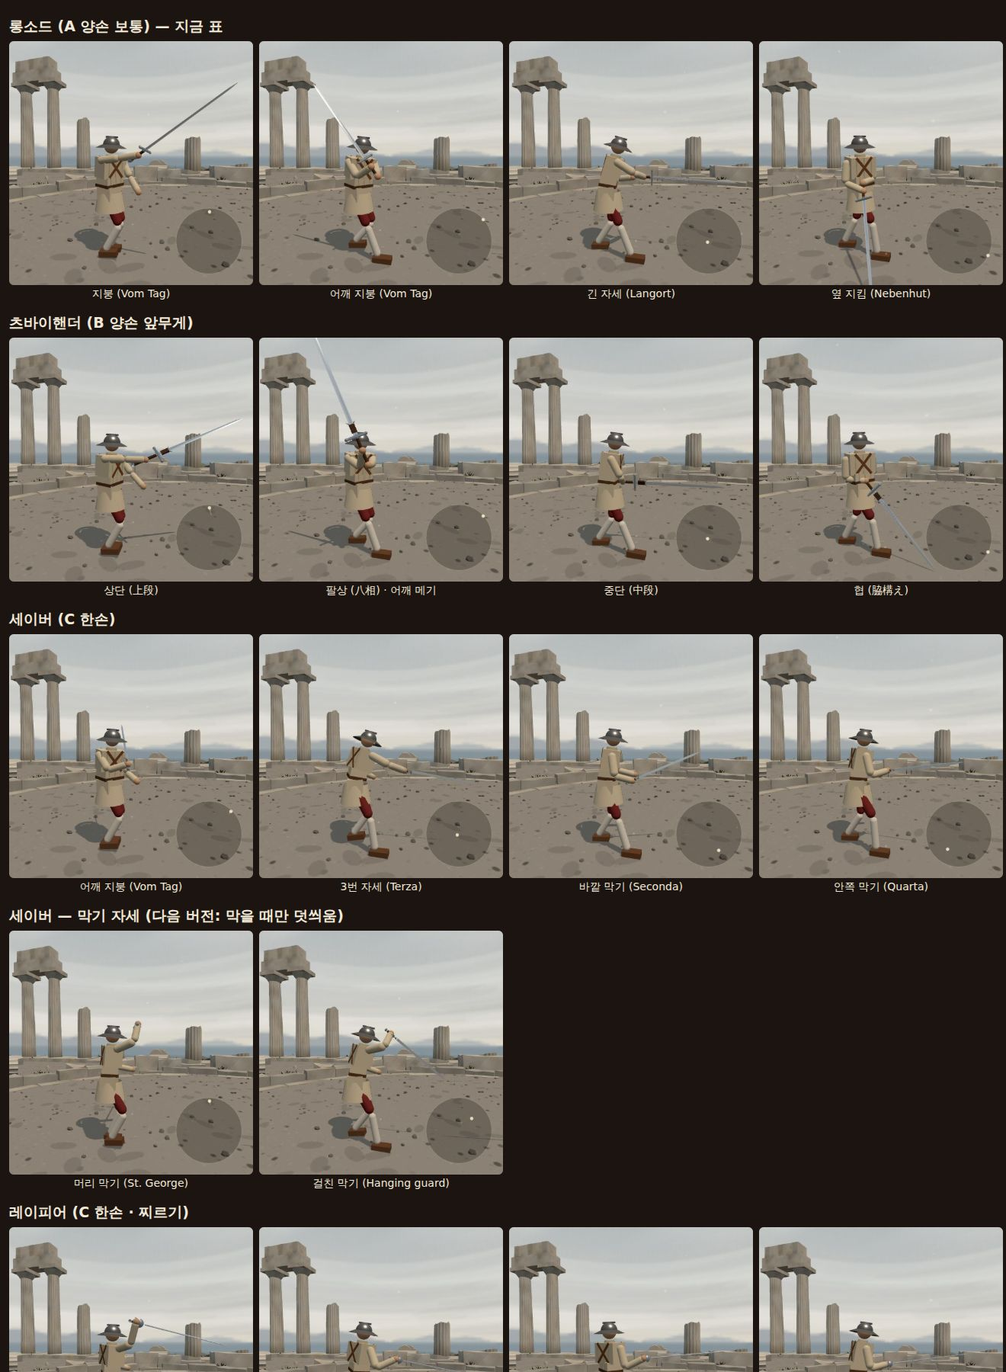
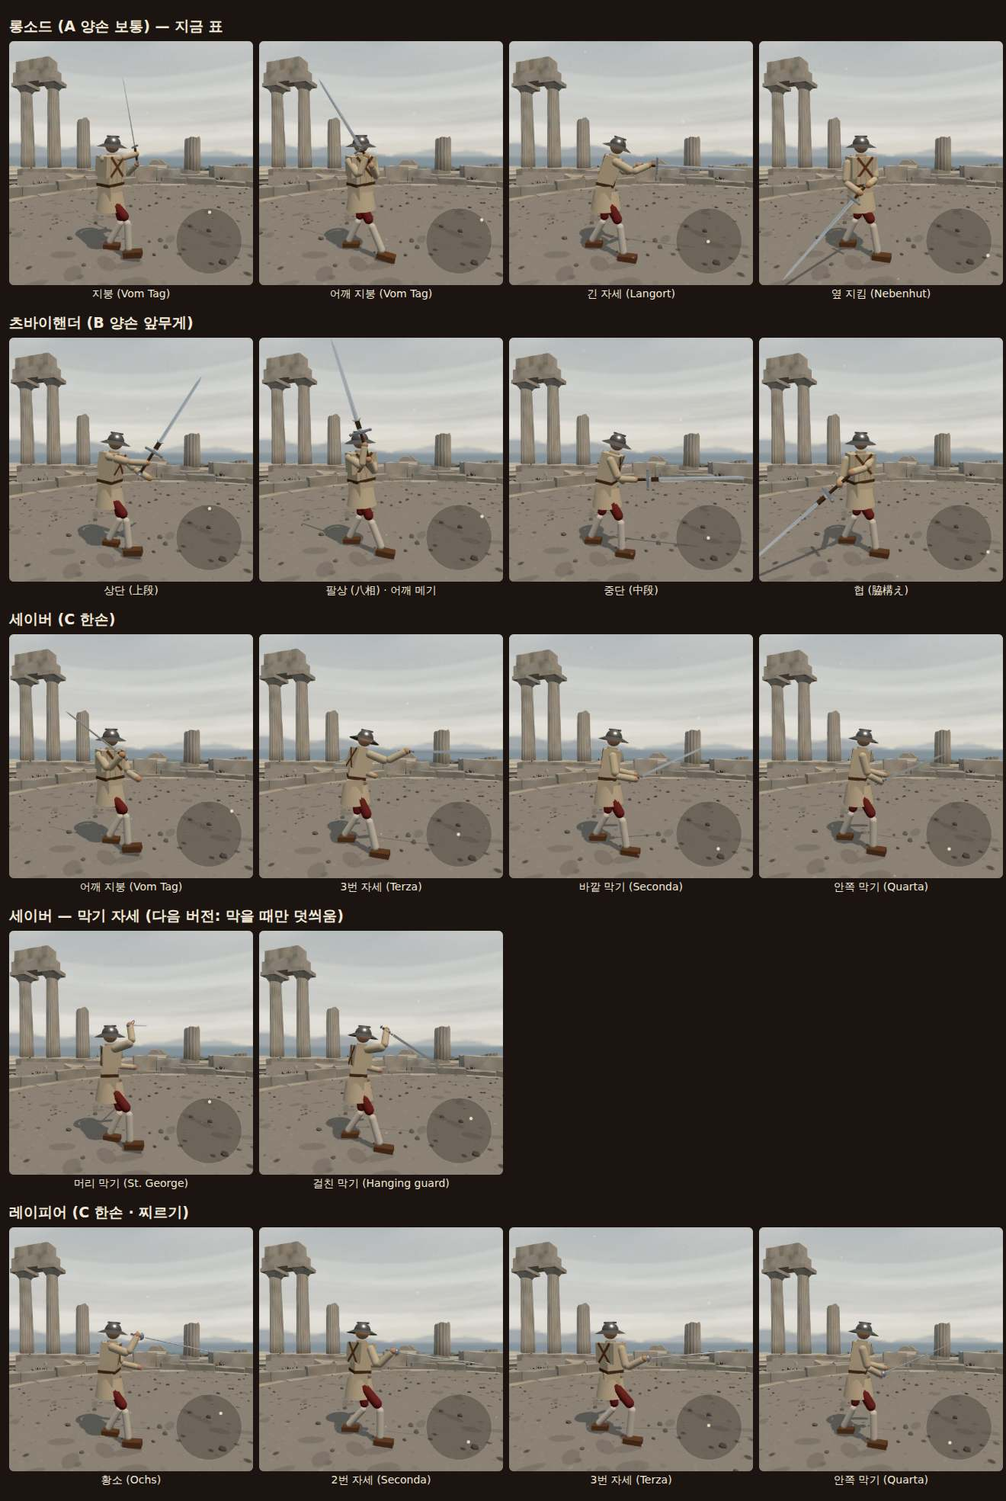
동작 라이브러리: 48판 비교로 찾은 규칙 반영 — 막기 자세는 자세표 대신 막기 덧씌우기(COVERS, 끔), 레이피어 1번 자세·안쪽 막기 값 뺌, AI 몰리넬로 뺌(사람 길로만), 손목 베기는 날 있는 칼만, 날 세우기 끄기 기본 끔, 모노호시자오 상단 제외(motionSkip). 켜도 약해지는 무기 없음(츠바이핸더 31→42%)
Claude-Session: https://claude.ai/code/session_013j34LYEUYoaeS5xUme2DTq

diff --git a/src/motion_library.js b/src/motion_library.js
@@ -68,7 +68,8 @@ export const FRAME_GUARDS = {
   one: {
     '긴 자세 (Langort)': { name: '3번 자세 (Terza)', desc: '팔을 곧게 뻗어 칼끝으로 겨누고 몸을 옆으로 세운다 · 런지로 찌른다', src: '카포 페로 3번 자세 [해석] — 손 위치는 R2 한손 뻗기 값' },
     '쟁기 (Pflug)': { name: '바깥 막기 (Seconda)', desc: '손을 허리 바깥에, 칼끝은 상대 얼굴 · 바깥 선을 닫는다', src: '[해석] — 손 위치는 R2 값' },
-    '왼쪽 쟁기': { name: '안쪽 막기 (Quarta)', desc: '손바닥을 위로 돌려 안쪽 선에, 칼끝은 상대 얼굴 · 안쪽 선을 닫는다', hand: [0.42, -0.1, 0.05], blade: [15, 8], pelvisYaw: -25, chestYaw: -35, pitch: 5, drop: 0.08, src: '카포 페로 4번 자세 = 손목을 돌린 상태(손바닥 위) [원전 2차] · 세이버 inside guard [원전 2차]' },
+    // 안쪽 막기(Quarta)는 이름만 붙인다: 손·칼끝을 바꾸면(손 [0.42,−0.10,0.05]·칼끝 [15,8]) 청강검이 50% → 31% (값 그대로 두면 44%) — 이 자리도 베기 길이 지난다
+    '왼쪽 쟁기': { name: '안쪽 막기 (Quarta)', desc: '손바닥을 위로 돌려 안쪽 선에, 칼끝은 상대 얼굴 · 안쪽 선을 닫는다', src: '레이피어 4번 자세(quarta) = 손목을 돌린 상태 [원전 2차 카포 페로] — 손 위치는 롱소드 왼쪽 쟁기 그대로' },
   },
 
   //  머리 막기(St. George)·걸친 막기(Hanging)는 표에 넣지 않는다 → 아래 COVERS (측정: 표의 지붕·황소 자리를 이 막기 자세로 바꾸자
@@ -86,7 +87,8 @@ export const STYLE_GUARDS = {
   'one:thrust': {
     '긴 자세 (Langort)': { name: '3번 자세 (Terza)', desc: '몸을 옆으로 세우고 뒷무릎을 굽혀 체중을 뒤에 · 팔은 굽히고 칼끝으로 상대 얼굴 · 런지로 찌른다', hand: [0.5, -0.05, 0.2], blade: [8, -3], pelvisYaw: -55, chestYaw: -65, pitch: -3, drop: 0.12, src: '카포 페로(1610) 9장: 뒷무릎을 굽힌다, 앞다리는 거의 편다 [원전 2차] · 옆으로 선 정도·손 위치 [추정]' },
     '쟁기 (Pflug)': { name: '2번 자세 (Seconda)', desc: '손을 어깨 높이로 뻗고 손바닥을 아래로 · 칼끝은 상대 가슴', hand: [0.5, 0.08, 0.24], blade: [-3, -3], pelvisYaw: -50, chestYaw: -60, pitch: 2, drop: 0.12, src: '카포 페로 2번 자세: 손바닥 아래, 어깨 높이 [원전 2차]' },
-    '황소 (Ochs)': { name: '1번 자세 (Prima)', desc: '칼을 뽑은 자리 — 손을 머리 위로, 칼끝은 상대 가슴으로 내려 겨눈다', hand: [0.32, 0.38, 0.18], blade: [-20, -10], pelvisYaw: -45, chestYaw: -55, pitch: 0, drop: 0.1, src: '카포 페로 1번 자세: 칼을 뽑은 직후, 머리 위 [원전 2차]' },
+    // 1번 자세(Prima: 손을 머리 위로, 칼끝을 내려 겨눔)는 뺐다 — 황소 자리는 찌르기·베기 길의 경유점이라 칼끝을 내리면 길이 휜다
+    //  (측정 48판: 넣으면 15%, 빼면 40%. 한손 막기 자세와 같은 까닭 — COVERS)
   },
 };
 
@@ -110,9 +112,10 @@ export function frameTableWithCovers(frame, style = null) {
 }
 
 /** 몸 틀(+싸움 방식)의 자세표 (guards.js 와 같은 순서·같은 패드). 고칠 것이 없으면 null(바탕 표 그대로) */
-export function frameTable(frame, style = null) {
+export function frameTable(frame, style = null, skip = []) {
   const o = { ...(FRAME_GUARDS[frame] ?? {}), ...(STYLE_GUARDS[`${frame}:${style}`] ?? {}) };
   for (const k of MOTION.skip) delete o[k];
+  for (const k of skip) delete o[k];
   if (!Object.keys(o).length && frame !== 'one') return null;
   return table(frame === 'one' || frame === 'gun' ? GUARD_BASE_ONE : GUARD_BASE, o);
 }
@@ -129,7 +132,9 @@ export const NEW_TECH = {
   ],
   // C: 손목으로 칼을 한 바퀴 돌려 되벤다(몰리넬로) · 앞에 나온 상대 손목·아래팔을 끊어 친다
   one: [
-    { name: 'molinello', from: G.langort, path: [[0.25, -0.35], G.nebenR, G.tagR, [0.12, 0.14], G.wechselL], open: 'UL', kind: 'cut', reach: 0, base: 0.9, chain: 1, src: '세이버 몰리넬로(moulinet) [해석]' },
+    // 몰리넬로는 사람이 손가락으로 그리는 길로만 둔다(ai: false): AI 가 골라 쓰면 한 판에 70~99번 쓰며 진다
+    //  (측정 48판: 세이버 켬 17% → 몰리넬로 빼면 44%, 나뭇가지 15% → 40%). 원을 돌리는 0.25초 동안 가운데가 비고 첫 베기가 약하다
+    { name: 'molinello', ai: false, from: G.langort, path: [[0.25, -0.35], G.nebenR, G.tagR, [0.12, 0.14], G.wechselL], open: 'UL', kind: 'cut', reach: 0, base: 0.9, chain: 1, src: '세이버 몰리넬로(moulinet) [해석]' },
     { name: 'wristCut', from: G.tagR, path: [[0.2, 0.1], [0.05, -0.08]], open: 'UL', kind: 'cut', reach: 0.25, base: 0.7, fast: true, src: '세이버·검의 손목 베기: 어깨에서 짧게 내려 앞손·아래팔을 끊는다(몸통보다 0.3~0.4 m 가깝다). 길이 0.62 — 분노의 베기의 절반 [해석]' },
   ],
 };
@@ -142,8 +147,9 @@ export function styleTech(style, frame) {
   if (style === 'blunt') t = t.filter((x) => x.kind !== 'thrust'); // 때리기: 동작은 베기와 같고 찌르기만 뺀다 (docs/weapon_types.md §4-3)
   // 앞무게: 높은 자세에서 내리치는 베기(분노의 베기=가사베기, 정수리 베기=상단 정면)를 먼저 — 가속할 길이 길다 (10라운드 6-7 과 같은 뜻)
   if (frame === 'heavy') t = weight(t, (x) => x.presses, 1.4);
-  const add = NEW_TECH[frame] ?? [];
-  return [...t, ...(style === 'thrust' ? add.filter((x) => x.kind === 'thrust') : add)];
+  // 손목 베기는 날 있는 한손 칼만: 나뭇가지(때리기)에 넣으면 40% → 19% (가볍고 날이 없어 앞손을 끊지 못하고 틈만 준다)
+  const add = (NEW_TECH[frame] ?? []).filter((x) => !(style === 'blunt' && x.name === 'wristCut'));
+  return [...t, ...(style === 'thrust' ? add.filter((x) => x.kind === 'thrust') : add)].filter((x) => x.ai !== false);
 }
 
 /** 속임수: 찌르기 없는 방식이면 찌르기 속임수를 뺀다 */
@@ -187,9 +193,9 @@ export const OVERLAY = {
 export function motionFor(weapon) {
   const frame = weapon.frame ?? 'two';
   const style = weapon.style ?? 'versatile';
-  return { frame, style, table: frameTable(frame, style), tech: styleTech(style, frame), feints: styleFeints(style), watch: frameWatchGuards(frame), overlay: OVERLAY[style] ?? null, parry: MOTION.useParry ? LIB_PARRY[weapon.id] ?? null : null, noTwist: style === 'blunt', flow: frame === 'heavy' };
+  return { frame, style, table: frameTable(frame, style, weapon.motionSkip ?? []), tech: styleTech(style, frame), feints: styleFeints(style), watch: frameWatchGuards(frame), overlay: OVERLAY[style] ?? null, parry: MOTION.useParry ? LIB_PARRY[weapon.id] ?? null : null, noTwist: style === 'blunt', flow: frame === 'heavy' };
 }
-export function applyMotionLibrary(fighter, { overlay = true, flow = true, noTwist = true } = {}) {
+export function applyMotionLibrary(fighter, { overlay = true, flow = true, noTwist = false, ai = null, cover = true } = {}) {
   const m = motionFor(fighter.weapon ?? {});
   fighter.guardPose.table = fighter.bodyGuard.table = m.table ?? undefined;
   fighter.motion = m;
@@ -197,11 +203,55 @@ export function applyMotionLibrary(fighter, { overlay = true, flow = true, noTwi
   // 날 세우기(손목 비틀기)를 끈다: 날 없는 무기(④ 때리기)는 어느 면으로 맞아도 같다.
   //  비트는 힘도 손목 힘 한도(cap) 안에서 나눠 쓰므로, 끄면 그만큼 휘두르는 데 쓴다 (무기-검술 연구 ② 제안).
   //  잰 값(motion_lab swings): 나뭇가지 +15~30%, 참치는 베기마다 들쭉날쭉. 라이트세이버(연구 ⑥ 제안)는 우리 판정이 날 있는 칼로 보므로
-  //  끄면 날이 안 서 베기 지표가 0 이 된다 — 넣지 않는다
+  //  끄면 날이 안 서 베기 지표가 0 이 된다 — 넣지 않는다.
+  //  기본은 끔(noTwist=false): 실제 싸움에서 참치 23% → 8%, 나뭇가지도 떨어졌다 (비트는 힘이 칼을 붙잡아 주는 몫이 컸다). 기록용으로만 남긴다
   if (overlay && noTwist && m.noTwist) fighter.twistScale = 0;
   // 흐름(SKILL.flow — 멈추지 않고 이어 베기)을 이 검객에게만 켠다: 앞무게(B)는 되돌리지 않고 이어 도는 것이 빠른 길 (몬탄테)
   if (overlay && flow && m.flow) installFlow(fighter);
+  // 막기 덧씌우기(COVERS): AI 가 그 줄을 칼로 막는 동안만 손·칼끝을 막기 자세로 덮는다 (자세표에 넣으면 베기 길이 휜다 — COVERS 주석)
+  if (overlay && cover && ai && COVERS[m.frame]) installCover(fighter, ai, COVERS[m.frame]);
   return m;
+}
+
+/** 막기 덧씌우기 (시제품): 검술 층 update 뒤에 thrustPose(덧씌우기 칸)를 막기 자세로 채운다. 찌르기(tap)·사격 중엔 건드리지 않는다 */
+function installCover(fighter, ai, covers) {
+  const sk = fighter.skill;
+  if (!sk || sk._cover) return;
+  const D = Object.fromEntries(Object.entries(covers).map(([k, o]) => {
+    const el = o.blade[0] * D2R;
+    const az = o.blade[1] * D2R;
+    return [k, { ...o, dir: [Math.cos(el) * Math.cos(az), Math.sin(el), Math.cos(el) * Math.sin(az)] }];
+  }));
+  sk._cover = { w: 0, last: null };
+  const upd = sk.update.bind(sk);
+  sk.update = (dt) => {
+    const r = upd(dt);
+    const st = sk._cover;
+    if (sk.tap || fighter.weapon?.gun) {
+      st.w = 0;
+      return r;
+    }
+    const want = ai.mode === 'defend' && !ai.defVoid ? D[ai.defLine] : null;
+    if (want) st.last = want;
+    st.w = Math.max(0, Math.min(1, st.w + (want ? dt / 0.08 : -dt / 0.15))); // 0.08초에 덮고 0.15초에 걷는다
+    const c = st.last;
+    const pose = sk.thrustPose;
+    if (!c || st.w <= 0) {
+      if (pose.w && !sk.tap) pose.w = 0;
+      return r;
+    }
+    for (let k = 0; k < 3; k++) {
+      pose.hand[k] = c.hand[k];
+      pose.dir[k] = c.dir[k];
+    }
+    pose.pelvisYaw = c.pelvisYaw * D2R;
+    pose.chestYaw = c.chestYaw * D2R;
+    pose.pitch = c.pitch * D2R;
+    pose.drop = c.drop;
+    pose.w = st.w;
+    sk.covers = (sk.covers ?? 0) + (want ? dt : 0);
+    return r;
+  };
 }
 
 function installFlow(fighter) {

diff --git a/src/weapons.js b/src/weapons.js
@@ -617,6 +617,9 @@ const monohoshizao = finalizeSpec('monohoshizao', {
   grip: 'two-hand', material: 'steel',
   tier: 'epic',
   ability: '제비 베기: 출혈',
+  // 동작 라이브러리(motion_library.js, 기본 꺼짐)의 앞무게 자세표에서 상단(上段)은 쓰지 않는다: 긴 자루·앞무게 칼이 칼끝을 뒤로 눕힌
+  //  상단에서 빠르게 내리면 날이 서지 않는다(날 세움 0~0.7) → 실제 싸움 48판 31% (상단 빼면 46%, 라이브러리 끔 50%). 지붕 자세 그대로
+  motionSkip: ['지붕 (Vom Tag)'],
   bleedMult: 2, // 에픽 특수 능력 '제비 베기: 출혈' (사장님 b안): 이 칼에 베이고 찔린 상처의 출혈 ×2 (롱소드 상대 ×1 38% · ×1.5 44% · ×2 50%, 48판씩 — 에픽 폭 45~65% 안)
   hiltLength: 0.25, bladeLength: 0.9, gripAlong: -0.22,
   mCut: 1.7, mThrust: 0.85, mBlunt: 0.95, // 1.5 로는 롱소드 상대 4% (긴 칼이라 간격에서 이기지 못한다) → 1.7 (실효 1.87)

diff --git a/docs/weapon_motions.md b/docs/weapon_motions.md
@@ -53,15 +53,17 @@
 | A ③ 찌르기 | 에스톡 | 14 (+1 반검, 계획) | 12, 찌르기 가중 ↑ | 4 (+반검 찌르기) | 롱소드 표 | 반검은 빈손이 칼날을 쥐는 물리가 먼저라 계획만 (§4) |
 | B ② 베기 | 츠바이핸더·모노호시자오 | 14 (**5**: 상단·팔상·왼 팔상·중단·협) | 12 + **몬탄테 탈류→레베스** (높은 베기 가중 ×1.4, 찌르기 ×0.5) | **흐름 켜기** + (계획) 먼저 세우기 | 무기별 재측정 | 시제품·측정 (§3·§5) |
 | B ④ 때리기 | 냉동 참치 | B 표 그대로 | 찌르기 뺀 10 + 탈류→레베스 | 흐름 + **날 세우기 끄기** | 재측정 | 시제품·측정 |
-| C ① 두루 | 청강검 | 14 (**5**: 머리 막기·걸친 막기·3번·바깥·안쪽) | 12 + **몰리넬로·손목 베기** | 들어가며 막기(있음) | 재측정 | 시제품·측정 |
+| C ① 두루 | 청강검 | 14 (자세 값은 지금 한손 표, 교본 이름 3: 3번·바깥·안쪽) + **막기 덧씌우기 2** (머리 막기·걸친 막기) | 12 + **손목 베기** (+ 몰리넬로는 사람만) | 들어가며 막기(있음) · 막기 덧씌우기(시제품, 끔) | 재측정 도구 | 시제품·측정 |
 | C ② 베기 | 세이버·팔쉬온 | C 표 | 12(찌르기 ×0.5) + 몰리넬로·손목 베기 | 들어가며 막기(있음) | 재측정 | 시제품·측정 |
-| C ③ 찌르기 | 레이피어 | C 표 + **3** (1·2·3번 자세 카포 페로식) | 12(찌르기 ×1.8, 베기 ×0.7) | **런지** + 칼 길 잡기(있음) | 재측정 | 시제품·측정 |
+| C ③ 찌르기 | 레이피어 | C 표 + **2** (2·3번 자세 카포 페로식. 1번은 뺐다 — §5-2) | 12(찌르기 ×1.8, 베기 ×0.7) | **런지** + 칼 길 잡기(있음) | 재측정 | 시제품·측정 |
 | C ④ 때리기 | 나뭇가지·고무 닭 | C 표 | 찌르기 뺀 10 + 몰리넬로·손목 베기 | 날 세우기 끄기 | 재측정 | 시제품·측정 |
 | D ⑤ 사격 | 리볼버 | 사격 자세 1 | 쏘기 1 | 반동·장전 자세 | — | 디렉터 작업 중(자동 조준) |
 | E ③ 자루 무기 | (창 — 로스터 없음) | 6 (Mittelhut·Oberhut·Unterhut·Steurhut·Nebenhut·Wechselhut) [원전 2차 마이어] | 6 (미끄러뜨려 찌르기·뒷끝 치기·교차 베기…) | 3 (손 옮겨 쥐기·끝 바꾸기·런지) | — | **물리 구조부터**(두 손 간격) — 계획만 |
 | E ②④ 할버드·폴액스 | (없음) | E 표 | 내려찍기·걸어 당기기 | 자루로 받기 | — | 계획만 |
 
-**합계** (새로 만든 것): 자세 13(B 5, C 5, C③ 3), 기술 3(탈류→레베스·몰리넬로·손목 베기), 덧씌우기 3(런지·흐름 켜기·날 세우기 끄기), 무기별 막기 자리 8벌.
+**합계:**
+- **남긴 것:** 자세 7(B 5, C③ 2)과 교본 이름 3(C), 막기 덧씌우기 2(머리 막기·걸친 막기, 끔). 기술 3(탈류→레베스·손목 베기, 몰리넬로는 사람만). 덧씌우기 2(런지·흐름 켜기).
+- **시행착오로 뺀 것:** 한손 막기 자세 2를 표에서, 레이피어 1번 자세, 안쪽 막기 값, 모노호시자오 상단, 날 세우기 끄기, AI 몰리넬로 — §5-2.
 **계획** (구조가 먼저 필요): 에스톡 반검 1, 자루 무기 표 6 + 기술 6 + 덧씌우기 3.
 
 ## 2. 자세표 (몸 틀별) — 값과 물리에서 버티는지
@@ -83,18 +85,22 @@
 ### C 한손 (세이버·팔쉬온·청강검·레이피어·나뭇가지·고무 닭)
 | 패드 | 자세 | 손 | 칼끝 | 근거 | 세이버 / 레이피어 (cm·°) |
 |---|---|---|---|---|---|
-| 머리 위 | **머리 막기 (St. George)** | 0.30, 0.40, 0.08 | 5, −80 (머리 위 가로) | 허턴 Cold Steel 도판 [원전 2차] | 2.8·0.2 / 4.6·0.9 |
-| 오른 위 앞 | **걸친 막기 (Hanging)** | 0.40, 0.38, 0.12 | −35, −20 (칼끝이 상대 가슴으로 늘어짐) | 페이지(1746): 팔꿈치를 들고 칼끝은 상대 가슴, 머리를 덮는다 [원전 2차] | 2.0·0.2 / — |
 | 가운데 | **3번 자세 (Terza)** | R2 한손 뻗기 값 | 교본 | 한손 뻗기 [해석] | 0.5·0.0 / (C③ 표) |
 | 오른 허리 | **바깥 막기 (Seconda)** | R2 값 | 교본 | [해석] | 3.2·0.4 / (C③ 표) |
-| 왼 허리 | **안쪽 막기 (Quarta)** | 0.42, −0.10, 0.05 | 15, 8 | 4번 자세 = 손바닥 위로 돌린 상태 [원전 2차 카포 페로] | 2.8·0.5 / 4.0·0.6 |
+| 왼 허리 | **안쪽 막기 (Quarta)** | 롱소드 왼쪽 쟁기 값 | 교본 | 4번 자세 = 손바닥 위로 돌린 상태 [원전 2차 카포 페로] — 값을 바꾸면 청강검이 약해져 이름만 (§5-2) | — |
+
+**막기 덧씌우기 (COVERS — 자세표가 아니라 막을 때만 덮는다, §5-2):**
+| 막는 줄 | 자세 | 손 | 칼끝 | 근거 | 세이버 (cm·°, 자세표에 넣었을 때 잰 값) |
+|---|---|---|---|---|---|
+| 정수리(highC) | **머리 막기 (St. George)** | 0.30, 0.40, 0.08 | 5, −80 (머리 위 가로) | 허턴 Cold Steel 도판 [원전 2차] | 2.8·0.2 / 4.6·0.9 |
+| 오른 위(highR) | **걸친 막기 (Hanging)** | 0.40, 0.38, 0.12 | −35, −20 (칼끝이 상대 가슴으로 늘어짐) | 페이지(1746): 팔꿈치를 들고 칼끝은 상대 가슴, 머리를 덮는다 [원전 2차] | 2.0·0.2 / — |
 
 C③ 레이피어 덧씌우기 (카포 페로):
 | 패드 | 자세 | 손 | 칼끝 | 몸 | 근거 | 레이피어 (cm·°) |
 |---|---|---|---|---|---|---|
 | 가운데 | **3번 자세 (Terza)** | 0.50, −0.05, 0.20 | 8, −3 | 골반 −55·가슴 −65, 뒤로 −3°, 낮춤 0.12 | 뒷무릎 굽힘·앞다리 폄(9장) [원전 2차] · 칼 길이 = 런지 보폭 [원전 2차] | 6.1·7.6 |
 | 오른 허리 | **2번 (Seconda)** | 0.50, 0.08, 0.24 | −3, −3 | −50·−60 | 손바닥 아래, 어깨 높이 [원전 2차] | 4.8·4.9 |
-| 오른 위 앞 | **1번 (Prima)** | 0.32, 0.38, 0.18 | −20, −10 | −45·−55 | 칼을 뽑은 자리, 머리 위 [원전 2차] | 2.2·0.1 |
+| (뺌) | 1번 (Prima) | 0.32, 0.38, 0.18 | −20, −10 | −45·−55 | 칼을 뽑은 자리, 머리 위 [원전 2차] — 황소 자리(베기 경유점)라 빼냈다: 넣으면 15%, 빼면 40% | 2.2·0.1 |
 
 - 자세는 모두 물리에서 버틴다. 손 오차 대부분 5 cm 안, 가장 큰 것은 왼 팔상 18 cm(롱소드 표의 같은 자리도 17 cm), 칼끝 오차 8° 안이다.
 
@@ -107,8 +113,8 @@ C③ 레이피어 덧씌우기 (카포 페로):
 | 기술 | 길 | 근거 | 잰 값 |
 |---|---|---|---|
 | **탈류→레베스** (B) | 오른 어깨 → 왼 아래 → 왼 옆 → 왼 어깨 → 오른 아래 (8자 한 번) | 몬탄테 첫 규칙 [원전 2차] | 츠바이핸더 0.32초에 베기 두 번(6.3·6.1·9.7 m/s). 따로 벤 분노의 베기 한 번(12.3 m/s·180 J)보다 한 번 한 번은 약하다. 대신 **되세우는 시간이 없다**. 모노호시자오 12.1 m/s 이지만 날 세움 0 — 아래 문제 참고 |
-| **몰리넬로** (C) | 긴 자세 → 오른 아래 → 옆 지킴 → 어깨 → 왼 아래 (한 바퀴 돌려 베기) | Radaelli: 팔꿈치 축 원 베기 [원전 2차] | 세이버 0.25초에 두 번(7.2·9.7 m/s, 날 0.9~1.0) |
-| **손목 베기** (C) | 어깨 → 짧게 앞 아래 (길이 0.62, 분노의 베기의 절반) | Roworth·Angelo: 다리를 빼며 머리·손목을 벤다 [원전 2차] | 세이버 10.9 m/s·98 J (날 1.0) — 팔 상처 문턱 22 J 를 넉넉히 넘는다. 처음 넣은 아주 짧은 길(0.37)은 4 m/s·14 J 로 쓸모없어 고쳤다 |
+| **몰리넬로** (C, 사람만) | 긴 자세 → 오른 아래 → 옆 지킴 → 어깨 → 왼 아래 (한 바퀴 돌려 베기) | Radaelli: 팔꿈치 축 원 베기 [원전 2차] | 세이버 0.25초에 두 번(7.2·9.7 m/s, 날 0.9~1.0). AI 목록에서는 뺐다(§5-2 규칙 3) |
+| **손목 베기** (C, 날 있는 칼만) | 어깨 → 짧게 앞 아래 (길이 0.62, 분노의 베기의 절반) | Roworth·Angelo: 다리를 빼며 머리·손목을 벤다 [원전 2차] | 세이버 10.9 m/s·98 J (날 1.0) — 팔 상처 문턱 22 J 를 넉넉히 넘는다. 처음 넣은 아주 짧은 길(0.37)은 4 m/s·14 J 로 쓸모없어 고쳤다 |
 | 찌르기 방식 가중 | 찌르기 ×1.8, 베기 ×0.7 | 레이피어는 찌르기 위주 [원전 2차] | — |
 | 때리기 | 찌르기 기술·찌르기 속임수 뺌 | 날 없는 무기 (weapon_types §4-3) | — |
 
@@ -151,7 +157,38 @@ C③ 레이피어 덧씌우기 (카포 페로):
 - **켬** = 자세표 + 기술 목록 + 덧씌우기 + 무기별 막기 자리.
 - **자세표만** = 자세표 + 막기 자리 + 덧씌우기.
 
-(표는 §5-2 에 채운다)
+### 5-0. 최종 (시행착오 뒤 라이브러리 기본값) — 48판씩, 95% 구간
+
+| 무기 (틀·방식) | 끔 | 켬 | 판정 |
+|---|---|---|---|
+| 츠바이핸더 (B②) | 31% (20~45) | **42%** (29~56) | 좋아짐(구간 겹침) — 팔상·중단·협 + 탈류→레베스 + 흐름 |
+| 모노호시자오 (B②) | 50% (36~64) | 46% (33~60) | 같음 — 상단은 뺐다(`motionSkip`) |
+| 냉동 참치 (B④) | 23% (13~37) | 25% (15~39) | 같음 |
+| 에스톡 (A③) | 40% (27~54) | 46% (33~60) | 같음(찌르기 가중·런지) |
+| 세이버 (C②) | 35% (23~50) | 27~44% (두 번 잼) | 같음(흔들림 큼) |
+| 팔쉬온 (C②) | 42% (29~56) | 40% (27~54) | 같음 |
+| 레이피어 (C③) | 48% (34~62) | 42% (29~56) | 같음 |
+| 청강검 (C①) | 50% (36~64) | 44% (31~58) | 같음 |
+| 나뭇가지 (C④) | 40% (27~54) | 33% (22~47) | 같음 |
+| 고무 닭 (C④) | 8% (3~20) | 8% (3~20) | 같음 |
+| 라이트세이버 (A①) | 65% | 65% | 똑같음 — A 틀·두루 방식은 바뀌는 것이 없다(점검) |
+
+→ 라이브러리를 켜도 **AI 가 눈에 띄게 약해지는 무기는 없다.** 츠바이핸더는 몬탄테식 이어 베기로 좋아지는 쪽이다. 한손 틀은 결국 **지금 한손 자세표 + 교본 이름**으로 남았다(아래 규칙 때문에).
+
+### 5-2. 시행착오로 찾은 규칙 (다음 버전 설계의 핵심)
+전부 48판 비교로 확인했다.
+
+1. **패드 자리는 베기 길의 경유점이다 — 막기 자세를 자세표에 넣지 마라.**
+   - 한손 표의 지붕·황소 자리를 머리 막기·걸친 막기로 바꾸자 그 자리를 지나는 베기가 모두 휘었다: 세이버 35% → 10%, 나뭇가지 40% → 15%. 둘을 빼면 38%·42%.
+   - 레이피어 1번 자세(15% → 빼면 40%), 청강검 안쪽 막기 값(31% → 44%)도 같은 까닭이다.
+   - → 막기 자세는 **막을 때만 덮는 덧씌우기**로 둔다(`COVERS`, `installCover` 시제품. 켜 보니 세이버 44% → 33%, 레이피어 40% → 46% 로 섞여서 기본은 끔).
+2. **자세표를 바꾸면 AI 의 "막는 자리" 표도 다시 찾아야 한다.** 롱소드 자세로 고른 표를 그대로 쓰면 엉뚱한 자세로 막는다. `motion_lab parry` 가 다시 찾는 도구다. 2판씩이라 거칠어, 지금 값(`LIB_PARRY`)은 기본 끔이다.
+3. **AI 가 쓰는 새 기술은 한 번 한 번이 기존 기술만큼 세야 한다.**
+   - 몰리넬로(한 바퀴 돌려 베기)는 멋있지만 AI 가 판마다 수십 번 골라 지는 원인이 됐다: 세이버 44% → 17%.
+   - → 사람이 손가락으로 그리는 길로만 둔다(`ai: false`). 손목 베기는 날 있는 한손 칼만 쓴다(나뭇가지는 40% → 19%).
+4. **날 세우기(손목 비틀기)를 끄지 마라.** 비트는 힘은 칼을 붙잡아 주는 몫이 컸다: 참치 23% → 8%. 연구 쪽의 "둔기는 날 세움이 필요 없다"는 물리로는 맞지만, 우리 손목 제어에서는 안정 장치다.
+5. **무기 한 자루의 약점은 무기 칸에서 막는다.** 모노호시자오는 상단에서 날이 서지 않는다 → 그 무기만 상단을 쓰지 않는다(`motionSkip`). 틀 전체를 바꾸지 않는다.
+6. **다리 걸음이 몸 동작을 받아야 한다.** 런지 몸 낮춤 목표 16 cm 가 3~8 cm 에 그친다.
 
 ### 5-1. 첫 측정에서 드러난 것 — 자세표를 바꾸면 AI 의 "막는 자리"도 바뀌어야 한다
 처음에는 자세표와 기술만 바꾸고 막기 자리는 롱소드 유파 그대로 두었다. 그러자 한손 무기가 크게 졌다.
